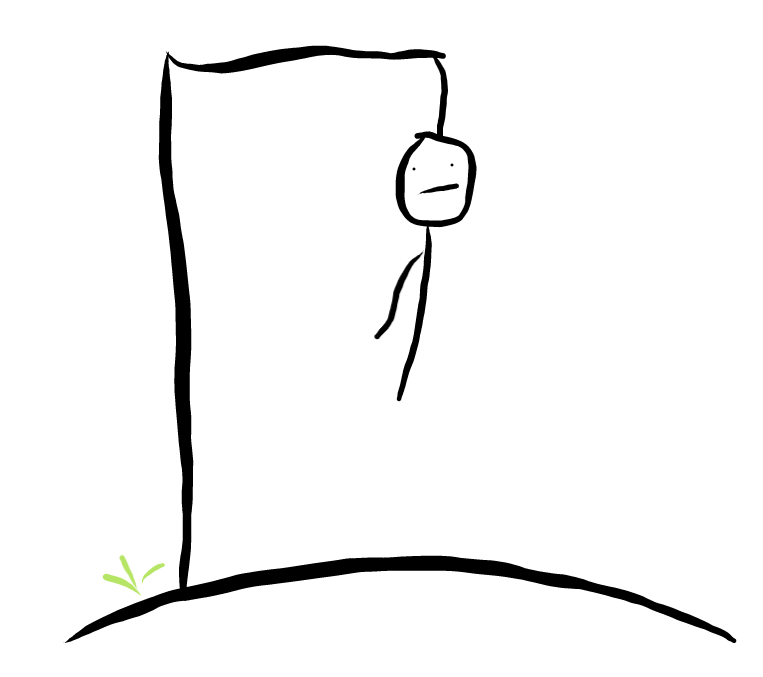
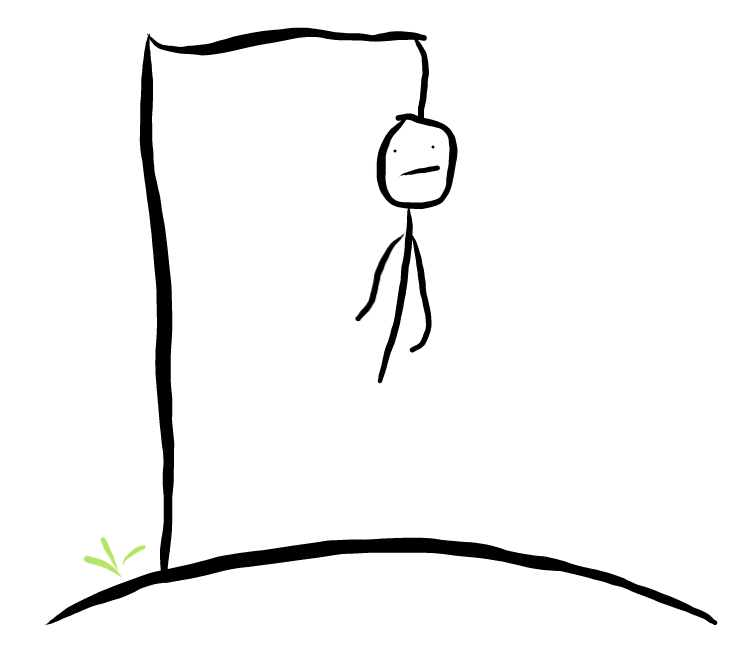
hangman fonctionnel

Changed region(s): [[0.0622, 0.0301, 0.9648, 0.9639]]

diff --git a/index.html b/index.html
@@ -16,63 +16,58 @@
 
     <main>
 
-        <img  id ="hangimg"src="assets/img/hang1.png" alt="Image of the hangman first live">
+        <img  id ="hangimg"src="assets/img/hang0.png" alt="Image of the hangman first live">
         <div class="word">
             <p>YOUR WORD :</p>
-            <ul>
-                <li>-</li>
-                <li>-</li>
-                <li>-</li>
-                <li>-</li>
-                <li>-</li>
-                <li>-</li>
-            </ul>
+            <div id="word">
+
+            </div>
         </div>
-        <p>CHOOSE A LETTER</p>
-        <div class="letters">
+        <p id="msg">CHOOSE A LETTER</p>
+        <div id="letters">
             <ul>
-                <li><button>A</button></li>
-                <li><button>B</button></li>
-                <li><button>C</button></li>
-                <li><button>D</button></li>
-                <li><button>E</button></li>
-                <li><button>F</button></li>
-                <li><button>G</button></li>
-                <li><button>H</button></li>
-                <li><button>I</button></li>
-                <li><button>J</button></li>
-                <li><button>K</button></li>
-                <li><button>L</button></li>
-                <li><button>M</button></li>
-                <li><button>N</button></li>
-                <li><button>O</button></li>
-                <li><button>P</button></li>
-                <li><button>Q</button></li>
-                <li><button>R</button></li>
-                <li><button>S</button></li>
-                <li><button>T</button></li>
-                <li><button>U</button></li>
-                <li><button>V</button></li>
-                <li><button>W</button></li>
-                <li><button>X</button></li>
-                <li><button>Y</button></li>
-                <li><button>Z</button></li>
+                <li><button id="a">A</button></li>
+                <li><button id="b">B</button></li>
+                <li><button id="c">C</button></li>
+                <li><button id="d">D</button></li>
+                <li><button id="e">E</button></li>
+                <li><button id="f">F</button></li>
+                <li><button id="g">G</button></li>
+                <li><button id="h">H</button></li>
+                <li><button id="i">I</button></li>
+                <li><button id="j">J</button></li>
+                <li><button id="k">K</button></li>
+                <li><button id="l">L</button></li>
+                <li><button id="m">M</button></li>
+                <li><button id="n">N</button></li>
+                <li><button id="o">O</button></li>
+                <li><button id="p">P</button></li>
+                <li><button id="q">Q</button></li>
+                <li><button id="r">R</button></li>
+                <li><button id="s">S</button></li>
+                <li><button id="t">T</button></li>
+                <li><button id="u">U</button></li>
+                <li><button id="v">V</button></li>
+                <li><button id="w">W</button></li>
+                <li><button id="x">X</button></li>
+                <li><button id="y">Y</button></li>
+                <li><button id="z">Z</button></li>
 
             </ul>
         </div>    
 
         <div>
-            <p>LIVES <span></span>/6</p>
+            <p>ATTEMPTS <span id="compt">0</span>/6</p>
         </div>
 
         <div class="playagain">
-            <a href="index.html"><button>PLAY AGAIN</button></a>
+            <button id="playAgain">PLAY AGAIN</button>
         </div>    
 
     </main>
     
 
 
-    <script src=""></script>
+    <script src="assets/js/main.js"></script>
 </body>
 </html>

diff --git a/assets/js/main.js b/assets/js/main.js
@@ -1,0 +1,79 @@
+/* Javascript for hangman */
+
+const words = ["meeting" ,"holistic", "swim" , "toe" , "blood", "leg", "flap", "press" , "wardruna", "chang", "match", "ban" , "jellyfish", "historical", "julien", "mattis", "bitter", "becode", "potato"];
+let answerArray = [];
+let word;
+let compteur = 0;
+
+const checkLetter = (id) =>{ // fonction qui compare mon la valeur de mes boutons avec le mot random
+    console.log(id);
+    let isletter = false;
+    if(id == "playAgain"){
+        Random();
+        document.getElementById("letters").style.display = "block";
+        document.getElementById("compt").innerText = compteur;
+
+
+        return
+    }
+
+    for (let i = 0; i < words.length; i++ ){
+        if (word[i] == id){
+            isletter = true;
+            console.log("true");
+            answerArray[i]=id;
+
+        }
+        
+    }
+
+    if (isletter){ // si la lettre est dans le mot random alors il réécrit answerArray avec les lettres trouvées
+        document.getElementById("word").innerText =(answerArray.join(" "));
+    }
+    else {
+        compteur++;
+        document.getElementById("compt").innerText = compteur;
+        console.log("faux");
+            document.getElementById("hangimg").setAttribute("src","assets/img/hang"+compteur+".png");
+    }
+
+    if (compteur == 6){
+        console.log("game over");
+        document.getElementById("letters").style.display = "none";
+        document.getElementById("msg").innerText = ("Game Over");
+    }
+}
+
+
+const Random =() => { // Fonction qui genere mot random
+    word = words[Math.floor(Math.random() * words.length)];
+    compteur = 0;
+    document.getElementById("hangimg").setAttribute("src","assets/img/hang"+compteur+".png");
+
+
+    for (let i = 0; i < word.length; i++){ // Créé array avec les "-" a la place des lettres
+        answerArray[i]= "_";
+
+    }
+    console.log(word);
+    document.getElementById("word").innerText =(answerArray.join(" ")); // join inverse de split pour supprr les virgules
+
+}
+
+(() => { // des que la page s'actualise il call la function Random
+    Random();
+
+    
+    Array.from(document.querySelectorAll("button")).forEach(btn =>
+        btn.addEventListener(
+            "click",
+            () => (checkLetter(btn.id), false),
+        ),
+    );
+
+
+
+
+
+
+})();

diff --git a/assets/css/style.css b/assets/css/style.css
@@ -1,3 +1,8 @@
+* {
+  margin: 0;
+  padding: 0;
+}
+
 /* Head */
 h1, h3 {
   text-align: center;
@@ -29,11 +34,11 @@ img {
   padding-right: 1em;
 }
 
-.letters {
+#letters {
   text-align: center;
 }
 
-.letters ul li {
+#letters ul li {
   display: inline-block;
 }
 
@@ -43,5 +48,13 @@ p {
 
 .playagain {
   text-align: center;
+}
+
+#word {
+  font-size: 50px;
+}
+
+button {
+  padding: 12px;
 }
 /*# sourceMappingURL=style.css.map */

diff --git a/assets/scss/style.scss b/assets/scss/style.scss
@@ -1,5 +1,8 @@
 // SCSS pour Hangman
-
+* {
+    margin: 0;
+    padding: 0;
+}
 /* Head */
 
 h1, h3 {
@@ -32,7 +35,7 @@ img {
     }
 }
 
-.letters {
+#letters {
     text-align: center;
 
     ul {
@@ -50,4 +53,10 @@ p {
 .playagain {
     text-align: center;
 
+}
+#word {
+    font-size: 50px;
+}
+button {
+    padding: 12px;
 }
